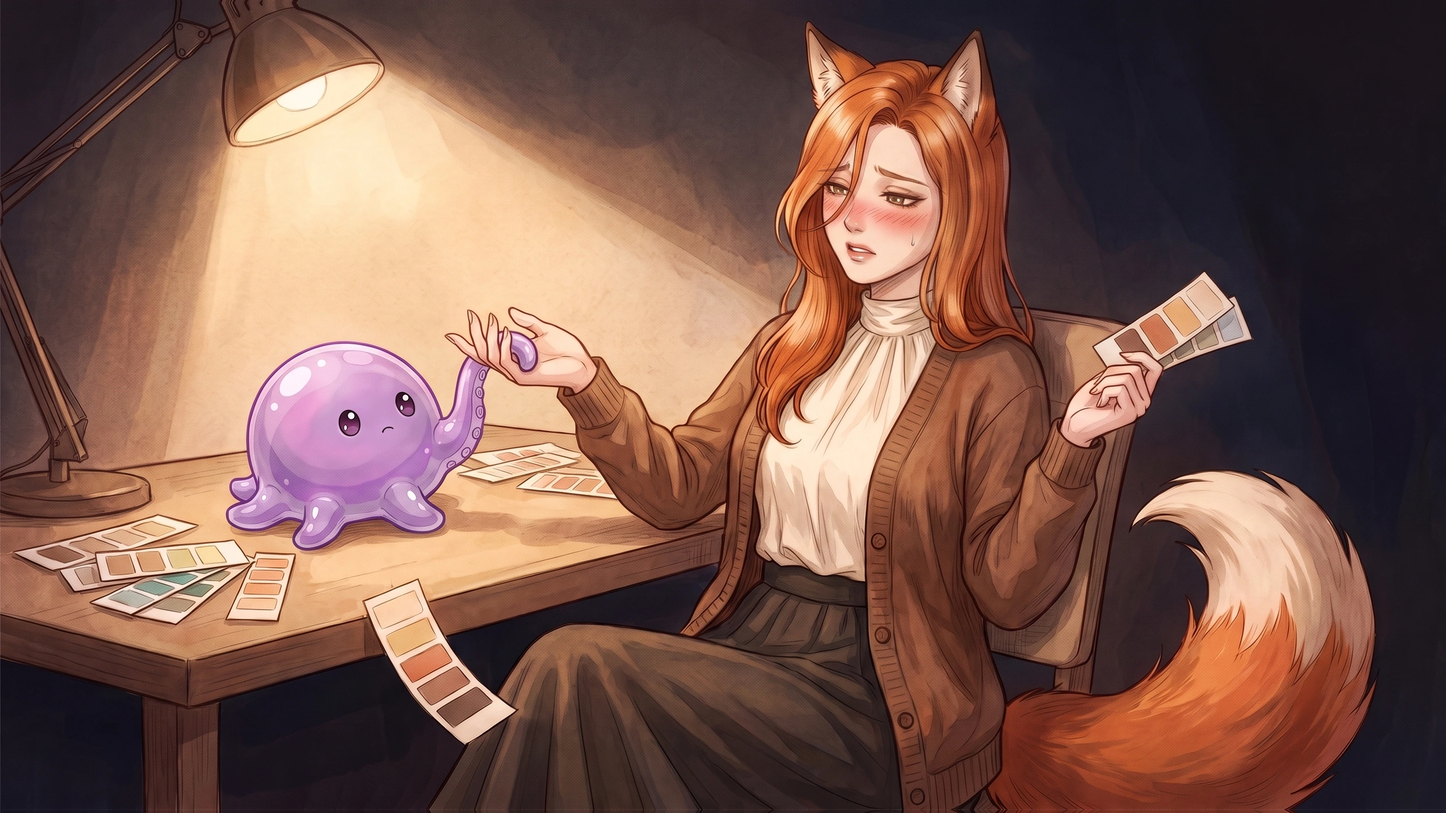
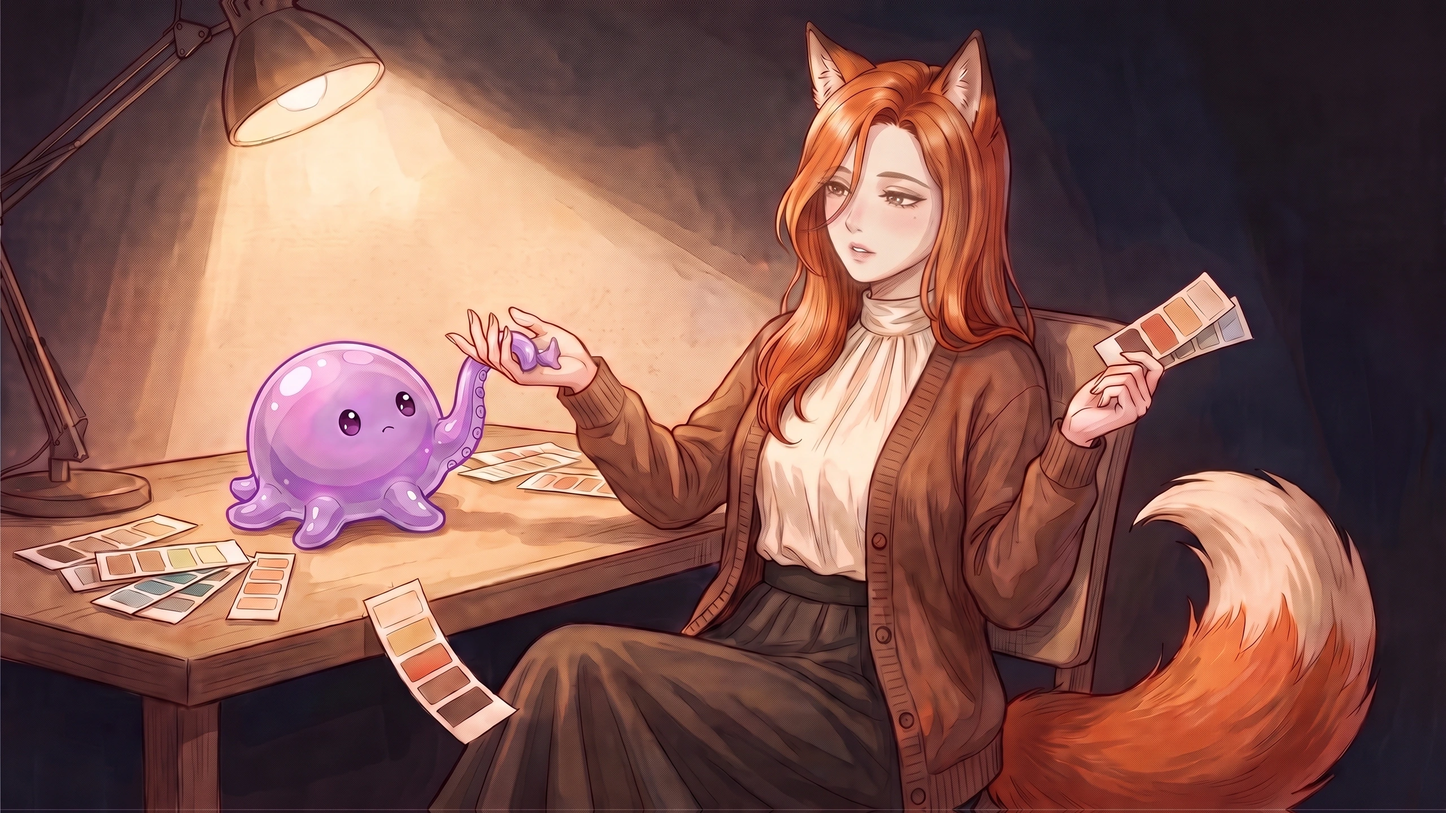
Redraw 7 CGs to match cover faces; full-body Claude and Cursor portraits

diff --git a/src/ui/styles.css b/src/ui/styles.css
@@ -543,8 +543,8 @@ button.select-person.is-resting .select-portrait { filter: grayscale(1); opacity
    按每人实测的眼线、头长与脸中心统一缩放定位，让四人头一样大、视线同高。
    --eye / --head / --cx 为占立绘高（宽）的比例；容器用 --frame-eye / --frame-head 指定眼线与头长占容器高的比例。 */
 img[data-asset="codex"] { --eye: .125; --head: .11; --cx: .44; }
-img[data-asset="claude"] { --eye: .19; --head: .195; --cx: .45; }
-img[data-asset="cursor"] { --eye: .20; --head: .19; --cx: .445; }
+img[data-asset="claude"] { --eye: .132; --head: .15; --cx: .47; }
+img[data-asset="cursor"] { --eye: .117; --head: .15; --cx: .485; }
 img[data-asset="workbuddy"] { --eye: .11; --head: .13; --cx: .355; }
 .scene-art .character-art,
 .person-avatar .select-portrait,

diff --git a/CHANGELOG.md b/CHANGELOG.md
@@ -2,6 +2,11 @@
 
 当前本地开发版本为 **v0.3.0**。日期表示本地变更记录，不表示 Git 标签、远程发布或线上部署；制作流程、源码实现与最终验收分别记录。
 
+## 全身立绘与事件 CG 重绘（visual-v10）— 2026-09-28
+
+- **立绘**：Claude、Cursor 换成头到鞋的全身版（与 Codex、WorkBuddy 同样取景），与封面服装一致；BiRefNet-HR-matting 去背景，1120×1680 RGBA WebP。`src/ui/styles.css` 中 claude / cursor 的 `--eye`、`--head`、`--cx` 按新图重测，codex / workbuddy 未动。
+- **事件 CG**：重绘 `codex_shallow`、`claude_shallow`、`cursor_shallow`、`workbuddy_shallow`、`codex_greedy`、`claude_greedy`、`workbuddy_greedy`：脸对齐封面、日系画风、腮红减淡；Codex greedy 改为傲娇得意的坏笑，Claude greedy 为含泪得意地比“五”，WorkBuddy greedy 赤裸上身、体格精瘦。成品 2560×1440 RGB WebP。旧图存于 `_archive/2026-09-28/src-assets/`。详见 `docs/design/art-log.md` 第 8 节。
+
 ## 结局 CG（visual-v9）— 2026-09-27
 
 - **六张结局 CG**：`ending_hunger`、`ending_household`、`ending_codex`、`ending_claude`、`ending_cursor`、`ending_workbuddy`，温馨画面、全员穿戴整齐；经 LightAI（nano-banana pro）生成，12 个服务任务（6 首稿、6 次重画或局部编辑），成品 2560×1440 RGB WebP（quality 93、method 6）。审看记录见 `docs/design/art-log.md` 第 7 节。
